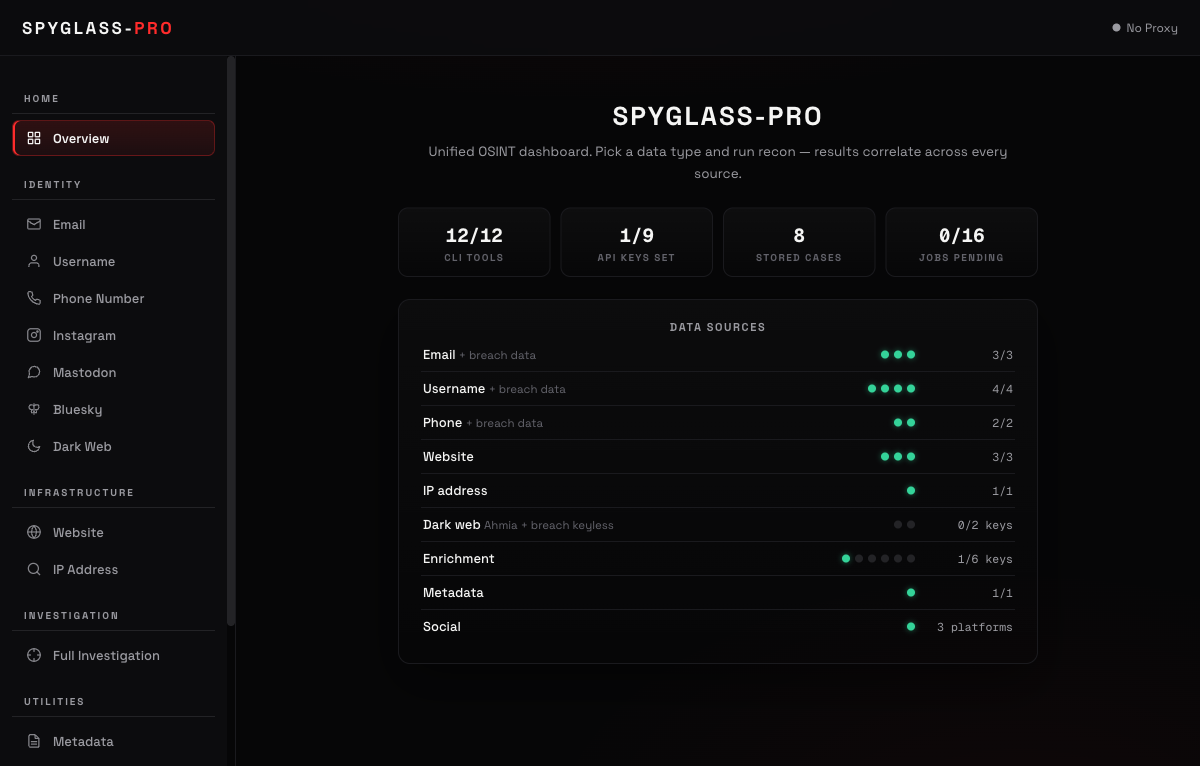
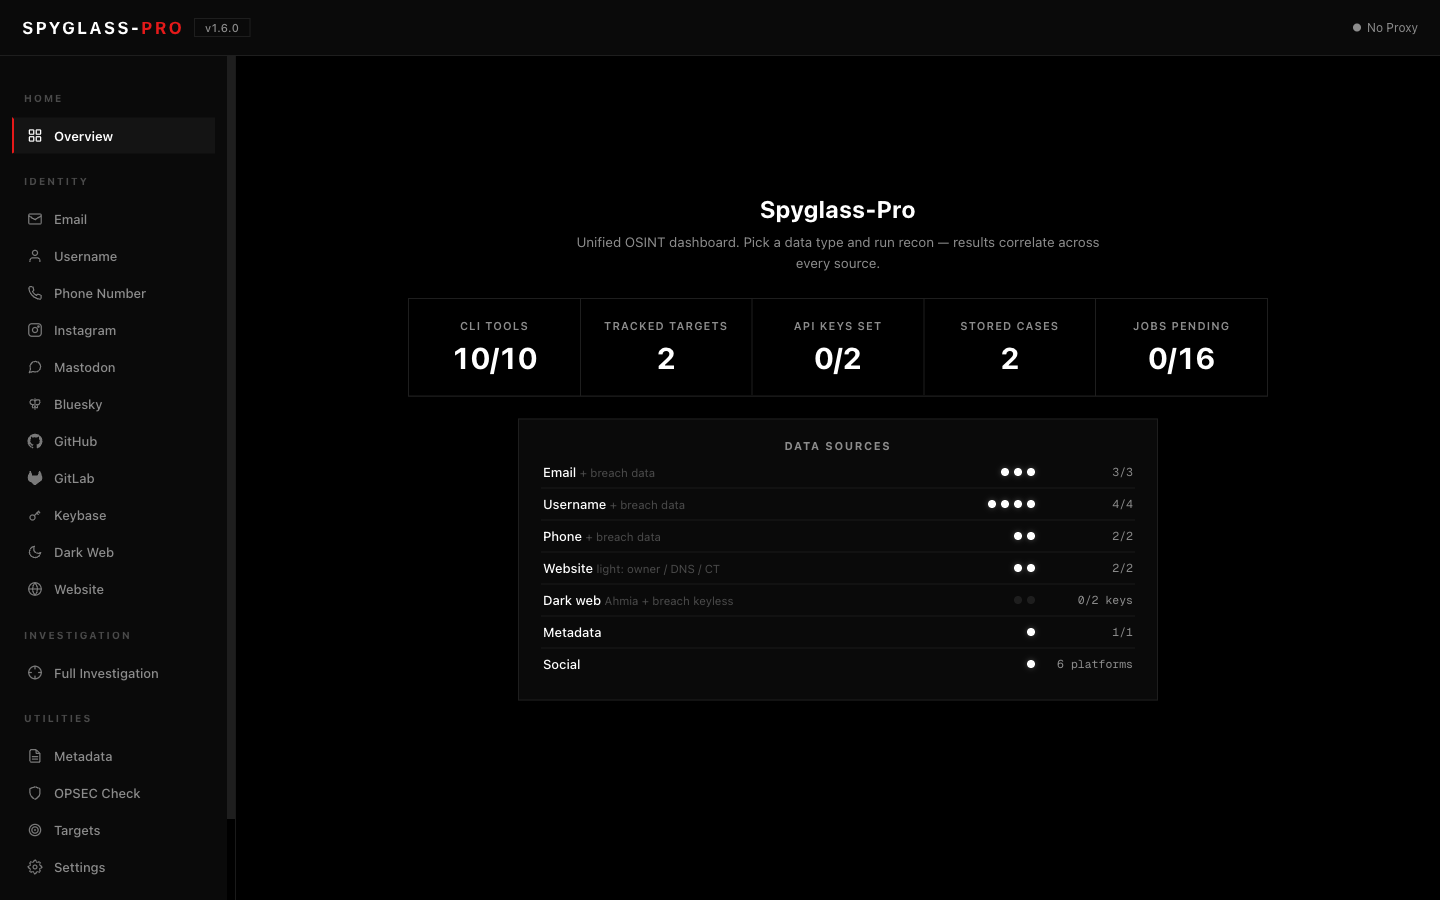
docs: current 1.6 screenshots; fix CSP-blocked Copy JSON
Replace the stale overview screenshot (it still showed the removed IP
module, Enrichment and three platforms) with current 1.6 captures, and add
the person card, tracked-target dashboard, targets list and cases diff to
the README.

The result card's Copy JSON button used an inline onclick, which the
dashboard's script-src 'self' CSP blocks before it can run. Wire it through
one delegated data-copy listener instead, and pin the no-inline-handlers
rule in the UI contract suite.

diff --git a/spyglass_pro/static/js/app.js b/spyglass_pro/static/js/app.js
@@ -81,6 +81,16 @@ document.addEventListener('DOMContentLoaded', function () {
     });
   });
 
+  /* CSP keeps script-src at 'self', so an inline onclick handler on a
+     result card is blocked before it can run. Copy is wired once here and
+     delegated through data-copy; result cards are re-rendered constantly,
+     so per-button listeners would leak with every scan. */
+  document.addEventListener('click', function (e) {
+    var el = e.target;
+    var btn = el && el.closest ? el.closest('[data-copy]') : null;
+    if (btn) copyResult(btn.getAttribute('data-copy'));
+  });
+
   /* ── Proxy status (topbar indicator; editing lives in Settings) ── */
   var proxyStatus = document.getElementById('proxyStatus');
 
@@ -812,7 +822,8 @@ function displayResults(containerId, data, append, qtype, target) {
     tabs += resultTab('Raw JSON', '<pre>' + escapeHtml(raw) + '</pre>');
     html += '<div class="result-tabs">' + tabs + '</div>';
     html += '<div class="export-btns">';
-    html += '<button class="btn btn-sm btn-outline" onclick="copyResult(\'' + containerId + '\')">Copy JSON</button>';
+    html += '<button class="btn btn-sm btn-outline" data-copy="' +
+            escapeHtml(containerId) + '">Copy JSON</button>';
     html += '</div></div>';
   }
 

diff --git a/tests/test_ui_contract.py b/tests/test_ui_contract.py
@@ -132,5 +132,21 @@ class StyleFloorTest(unittest.TestCase):
                          f"sub-10px text in style.css: {too_small}")
 
 
+class InlineHandlerTest(unittest.TestCase):
+    """No inline event handlers, in JS-built markup or the template.
+
+    The dashboard serves ``script-src 'self'``. A handler written as
+    ``onclick="..."`` is blocked before it runs — the Copy JSON button
+    shipped dead for exactly this reason — so every interaction is a
+    listener bound from app.js instead.
+    """
+
+    def test_no_inline_event_handlers(self):
+        for name in ("spyglass_pro/static/js/app.js", "spyglass_pro/templates/index.html"):
+            text = (_ROOT / name).read_text(encoding="utf-8")
+            found = re.findall(r"\son[a-z]+\s*=", text)
+            self.assertEqual(found, [], f"inline event handler in {name}: {found}")
+
+
 if __name__ == "__main__":
     unittest.main()

diff --git a/README.md b/README.md
@@ -21,7 +21,7 @@ One passive OSINT dashboard: identity resolution, light website recon, breach an
 
 ---
 
-![Spyglass-Pro overview — stat cards and the per-module data-source grid](https://raw.githubusercontent.com/Ahmad170412/Spyglass-PRO/main/docs/screenshots/dashboard-overview.png)
+![Spyglass-Pro — a tracked GitHub target with stat deltas, honest list diffs, new posts and a per-check history rail](https://raw.githubusercontent.com/Ahmad170412/Spyglass-PRO/main/docs/screenshots/social-dashboard.png)
 
 ## Why Spyglass-Pro?
 
@@ -50,6 +50,14 @@ a target, and how do I know the answer is real?**
 > **Built for people who need the truth.** OSINT tools are dual-use. Only
 > investigate systems and accounts you own or have explicit permission to
 > test. See [Responsible use](#responsible-use).
+
+### A look inside
+
+![Full Investigation — the person model with a confidence on every account and link](https://raw.githubusercontent.com/Ahmad170412/Spyglass-PRO/main/docs/screenshots/full-investigation.png)
+
+| Stored cases | Targets |
+| --- | --- |
+| ![Stored cases — an entity diff between two website runs](https://raw.githubusercontent.com/Ahmad170412/Spyglass-PRO/main/docs/screenshots/stored-cases.png) | ![Targets — tracked handles and their check cadence](https://raw.githubusercontent.com/Ahmad170412/Spyglass-PRO/main/docs/screenshots/targets.png) |
 
 ---
 
@@ -498,7 +506,7 @@ of the run.
 .venv/bin/python tests/run_tests.py
 ```
 
-**718 offline checks** — the vendored engines' own suites plus the merge layer
+**719 offline checks** — the vendored engines' own suites plus the merge layer
 (API surface, auth gate, request-origin gate, proxy validation and masking,
 job pool, target validation, the exposure boundary, identity resolution, the
 vault, entity encryption, case queries, cross-platform filename and decoding
@@ -533,9 +541,9 @@ bug:
 ```
 run.py                     dev entry point
 scripts/install_tools.py   idempotent CLI-engine installer
-tests/                     718 offline checks (run_tests.py)
+tests/                     719 offline checks (run_tests.py)
 assets/logo.svg            README logo
-docs/screenshots/          dashboard screenshot
+docs/screenshots/          dashboard screenshots (README)
 spyglass_pro/
   app.py                   Flask routes + auth gate + scope boundary
   runner.py                job pool (queue cap, timeouts), engine dispatch
